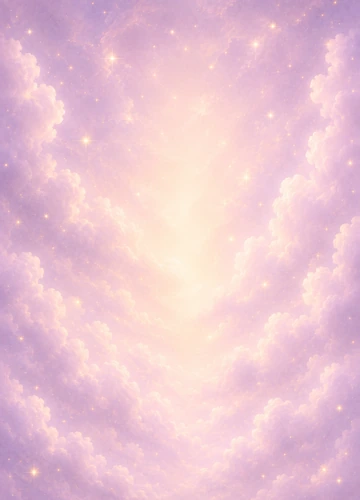
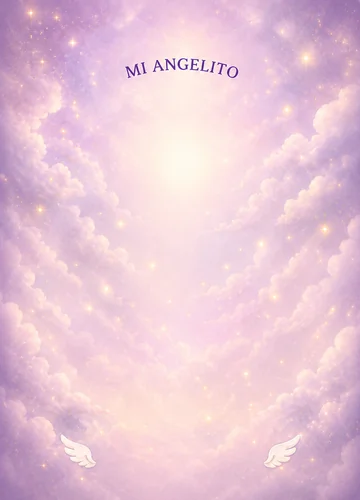
feat - alinear textos y elementos dinámicos sobre el nuevo fondo de PetProfileCard con alas y cabecera

diff --git a/src/components/mural/MuralCanvas.tsx b/src/components/mural/MuralCanvas.tsx
@@ -204,13 +204,13 @@ function PetProfileCard({ memorialId, planType, thumbnailUrl, onClose }: PetProf
               <h3 
                 style={{
                   position: 'absolute',
-                  top: '52px',
+                  top: '78px',
                   left: 0,
                   right: 0,
                   textAlign: 'center',
                   fontFamily: 'Georgia, serif',
                   fontStyle: 'italic',
-                  fontSize: '38px',
+                  fontSize: '34px',
                   fontWeight: 700,
                   color: '#C9A961',
                   textShadow: '0 2px 8px rgba(180,130,40,0.30)',
@@ -225,11 +225,11 @@ function PetProfileCard({ memorialId, planType, thumbnailUrl, onClose }: PetProf
               <div 
                 style={{
                   position: 'absolute',
-                  top: '102px',
+                  top: '116px',
                   left: 0,
                   right: 0,
                   textAlign: 'center',
-                  fontSize: '18px',
+                  fontSize: '14px',
                   zIndex: 10,
                   pointerEvents: 'none',
                 }}
@@ -237,29 +237,58 @@ function PetProfileCard({ memorialId, planType, thumbnailUrl, onClose }: PetProf
                 💛
               </div>
 
-              {/* 4. FOTO CIRCULAR DE LA MASCOTA (dinámica) */}
+              {/* 4. FOTO CIRCULAR DE LA MASCOTA CON AUREOLA */}
               <div 
                 style={{
                   position: 'absolute',
-                  top: '130px',
+                  top: '138px',
                   left: '50%',
                   transform: 'translateX(-50%)',
-                  width: '180px',
-                  height: '180px',
-                  borderRadius: '50%',
-                  overflow: 'hidden',
-                  border: '3px solid rgba(201,169,97,0.60)',
+                  width: '155px',
+                  height: '155px',
                   zIndex: 10,
-                  backgroundColor: 'white',
                 }}
               >
-                {loading ? (
-                  <div className="w-full h-full flex items-center justify-center bg-gray-50">
-                    <div className="w-8 h-8 border-4 border-[#C9A961] border-t-transparent rounded-full animate-spin" />
-                  </div>
-                ) : (
-                  <img src={foto} alt={nombre} className="w-full h-full object-cover" />
-                )}
+                {/* Halo dorado 3D flotando arriba */}
+                <div 
+                  style={{
+                    position: 'absolute',
+                    top: '-20px',
+                    left: '50%',
+                    transform: 'translateX(-50%) rotateX(45deg)',
+                    width: '78px',
+                    height: '26px',
+                    border: '3px solid #FFF59D',
+                    borderRadius: '50%',
+                    boxShadow: '0 0 16px #FFF59D, 0 0 8px #FFD54F, inset 0 0 10px #FFF59D',
+                    background: 'rgba(255, 245, 157, 0.15)',
+                    zIndex: 12,
+                    pointerEvents: 'none',
+                  }}
+                />
+
+                {/* Contenedor circular con borde */}
+                <div 
+                  style={{
+                    width: '100%',
+                    height: '100%',
+                    borderRadius: '50%',
+                    overflow: 'hidden',
+                    border: '3px solid rgba(201,169,97,0.70)',
+                    backgroundColor: 'white',
+                    boxShadow: '0 4px 20px rgba(180,130,40,0.18)',
+                    position: 'relative',
+                    zIndex: 2,
+                  }}
+                >
+                  {loading ? (
+                    <div className="w-full h-full flex items-center justify-center bg-gray-50">
+                      <div className="w-8 h-8 border-4 border-[#C9A961] border-t-transparent rounded-full animate-spin" />
+                    </div>
+                  ) : (
+                    <img src={foto} alt={nombre} className="w-full h-full object-cover" />
+                  )}
+                </div>
               </div>
 
               {/* 5. MEDALLA DEL PLAN */}
@@ -267,10 +296,10 @@ function PetProfileCard({ memorialId, planType, thumbnailUrl, onClose }: PetProf
                 <img 
                   style={{
                     position: 'absolute',
-                    top: '290px',
-                    right: 'calc(50% - 90px - 10px)',
-                    width: '44px',
-                    height: '44px',
+                    top: '265px',
+                    right: 'calc(50% - 77px - 10px)',
+                    width: '42px',
+                    height: '42px',
                     zIndex: 15,
                   }}
                   src={planBadgeSrc} 
@@ -278,7 +307,65 @@ function PetProfileCard({ memorialId, planType, thumbnailUrl, onClose }: PetProf
                 />
               )}
 
-              {/* 6. Botón girar lila */}
+              {/* 6. FRASE EMOTIVA */}
+              <p
+                style={{
+                  position: 'absolute',
+                  top: '308px',
+                  left: 0,
+                  right: 0,
+                  textAlign: 'center',
+                  fontFamily: 'Georgia, serif',
+                  fontSize: '13.5px',
+                  fontWeight: 600,
+                  color: '#3E3264',
+                  lineHeight: '1.35',
+                  padding: '0 28px',
+                  margin: 0,
+                  zIndex: 10,
+                }}
+              >
+                “Siempre serás mi lugar favorito en el mundo.”
+              </p>
+
+              {/* 7. CORAZÓN LILA */}
+              <div 
+                style={{
+                  position: 'absolute',
+                  top: '350px',
+                  left: 0,
+                  right: 0,
+                  textAlign: 'center',
+                  fontSize: '14px',
+                  zIndex: 10,
+                  pointerEvents: 'none',
+                }}
+              >
+                💜
+              </div>
+
+              {/* 8. CIERRE INFERIOR ENTRE LAS ALITAS */}
+              <p
+                style={{
+                  position: 'absolute',
+                  top: '430px',
+                  left: 0,
+                  right: 0,
+                  textAlign: 'center',
+                  fontFamily: 'Georgia, serif',
+                  fontSize: '11px',
+                  fontWeight: 600,
+                  color: '#4A3F6B',
+                  lineHeight: '1.25',
+                  padding: '0 62px',
+                  margin: 0,
+                  zIndex: 10,
+                }}
+              >
+                En el Mural Global de Ángeles en el Cielo
+              </p>
+
+              {/* 9. Botón girar lila */}
               <div
                 onClick={(e) => {
                   e.stopPropagation();
